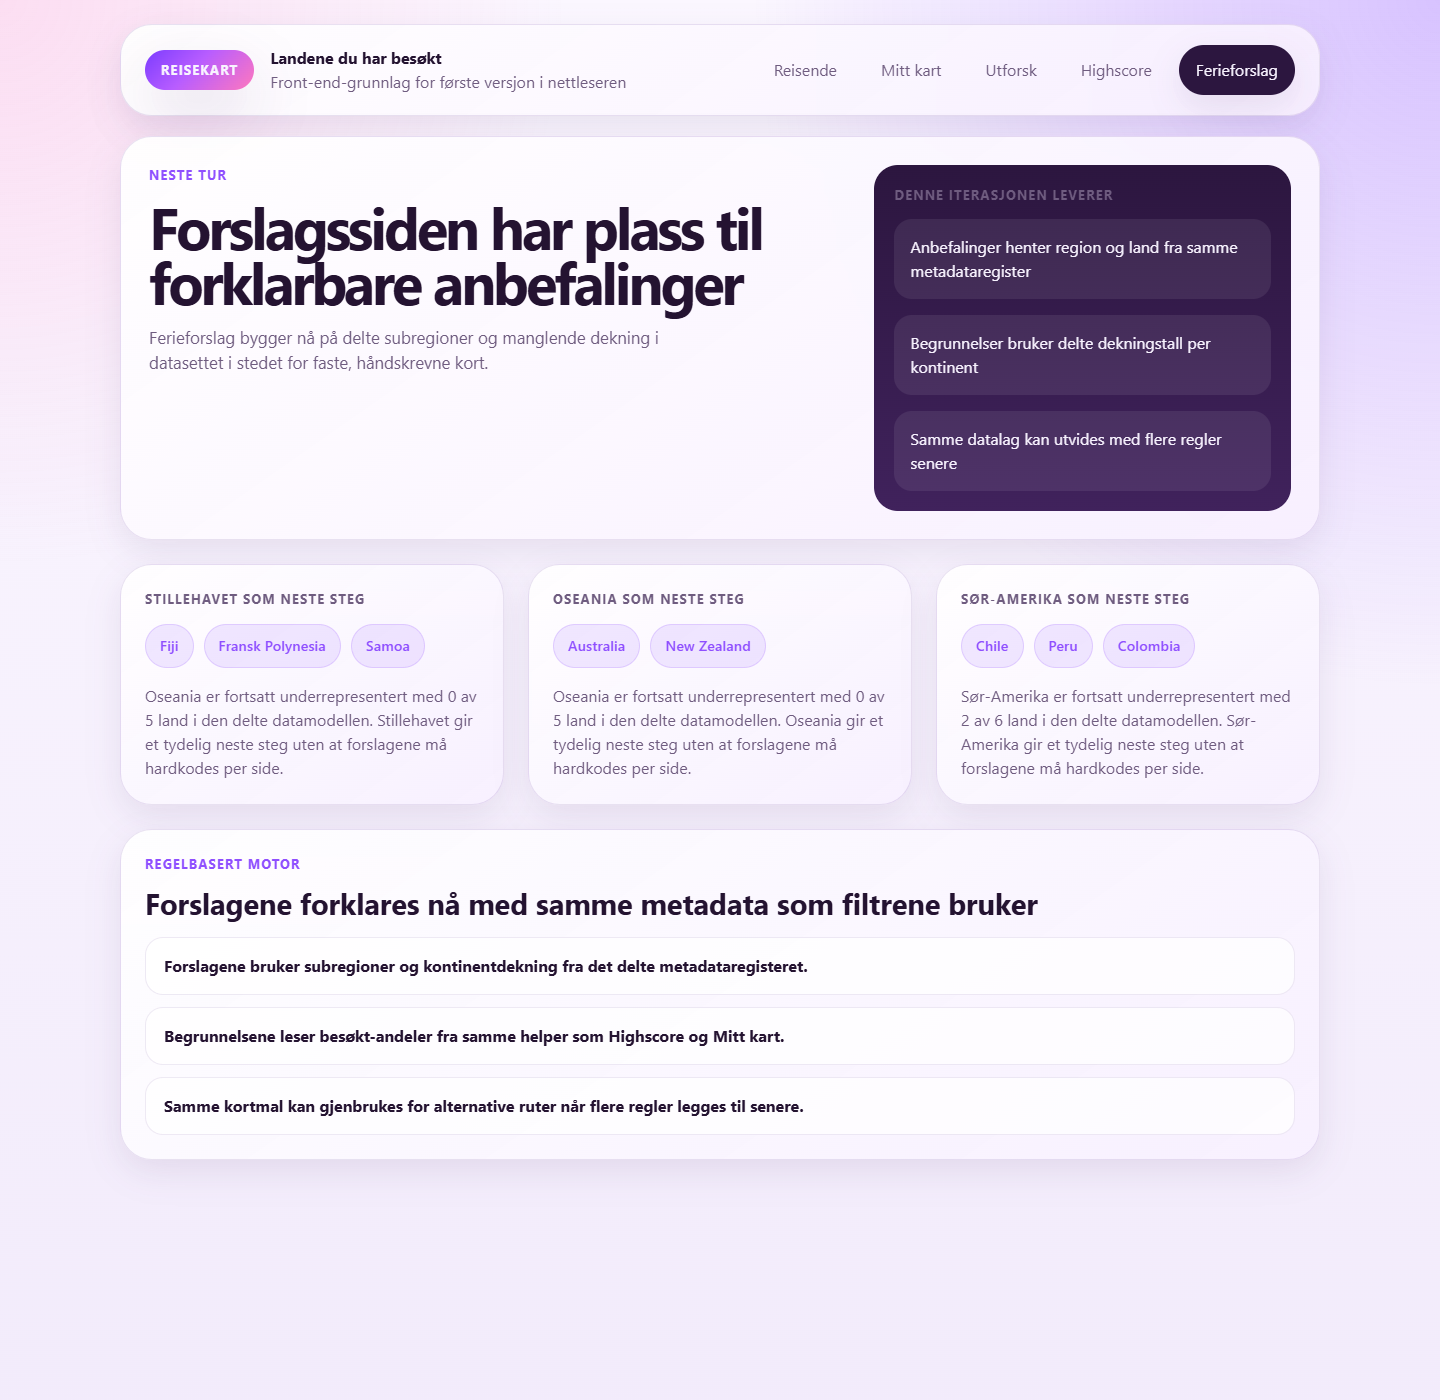
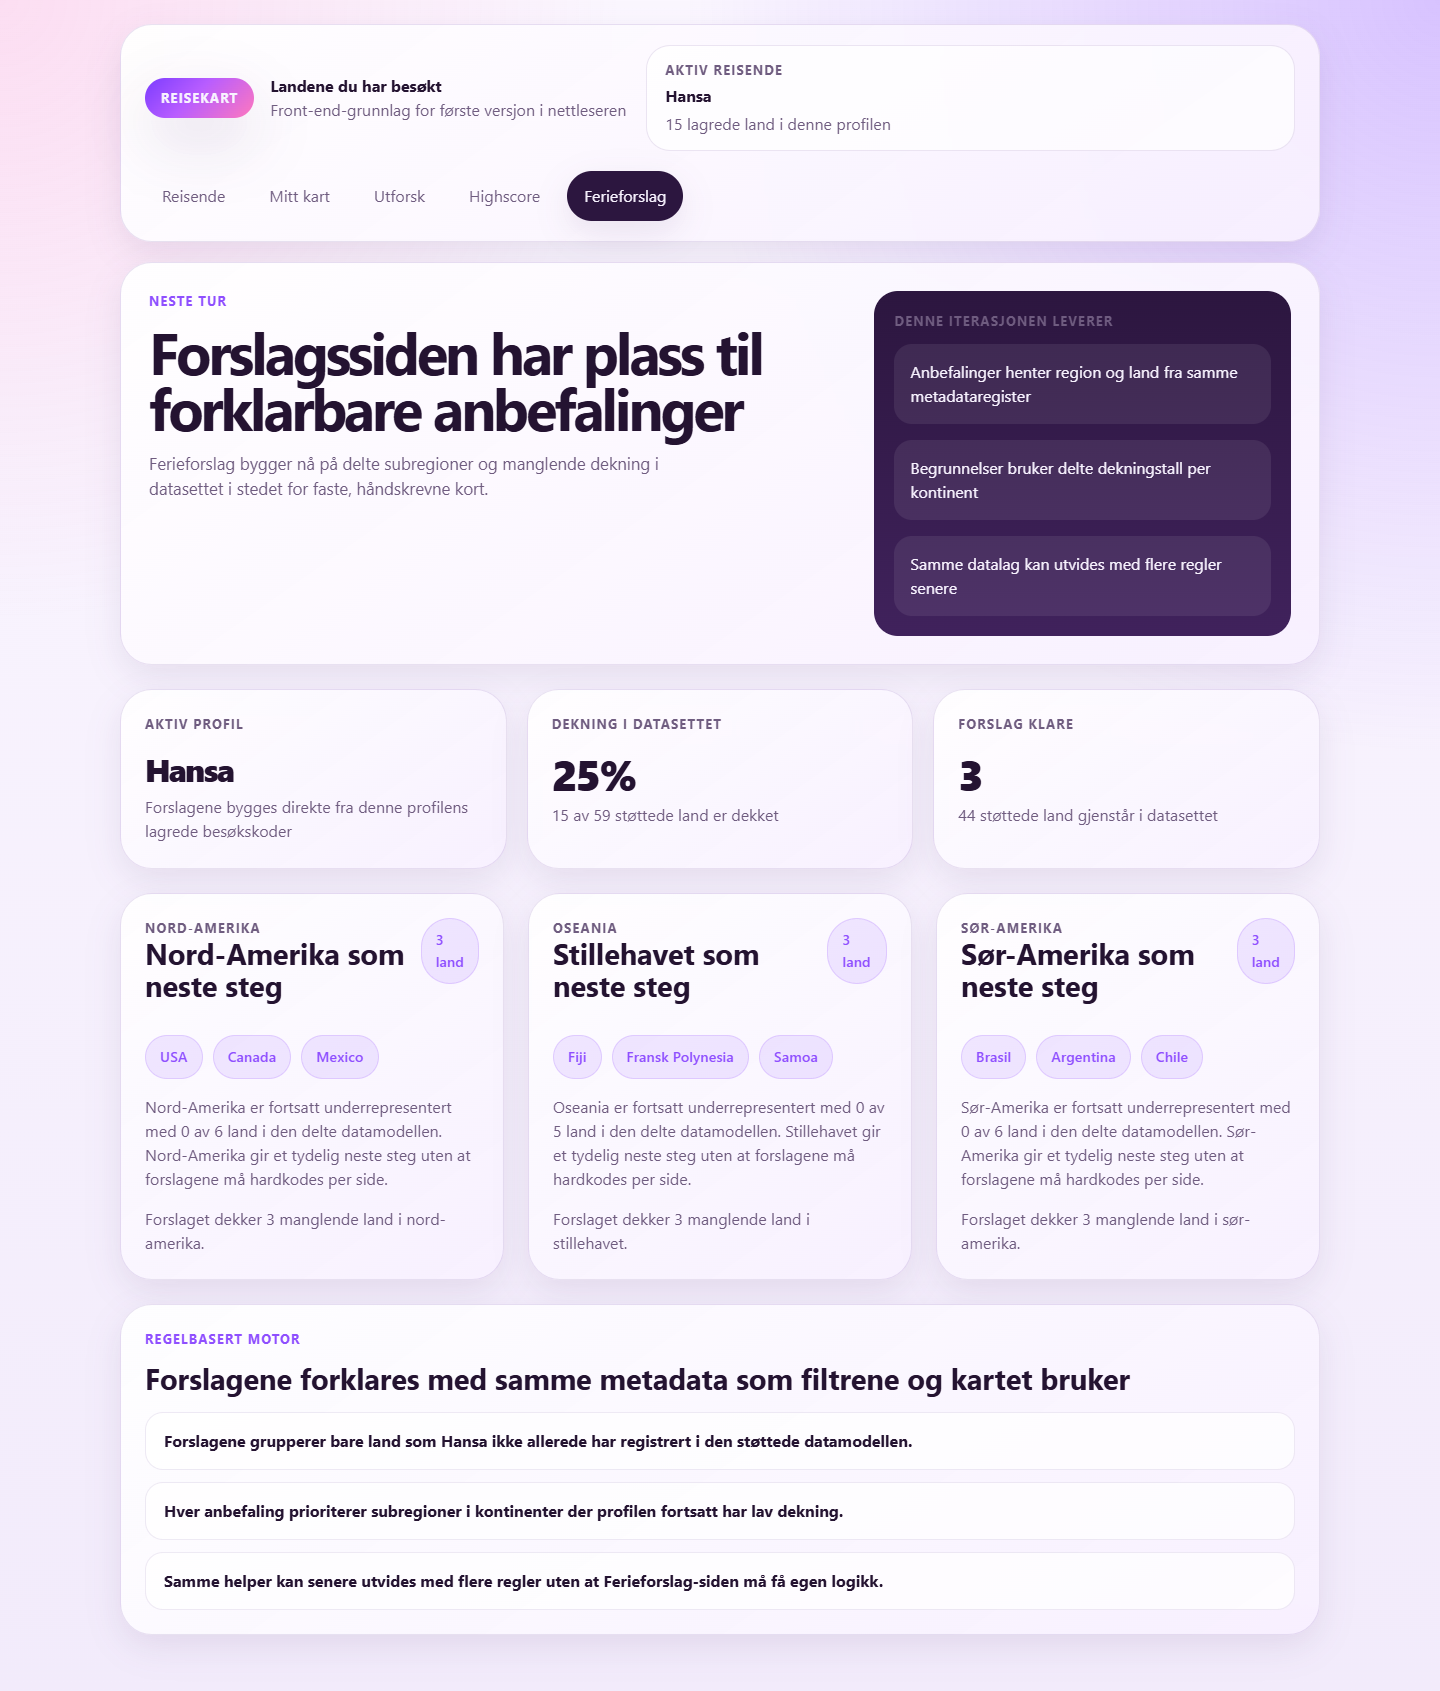
feat: personalize vacation suggestions

Changed region(s): [[0.0625, 0.0307, 0.9375, 0.86], [0.125, 0.8907, 0.5938, 0.9521]]

diff --git a/src/pages/SuggestionsPage.tsx b/src/pages/SuggestionsPage.tsx
@@ -1,53 +1,159 @@
-import { featuredTraveler } from '../features/countries/demoTravelers'
-import { buildVacationSuggestions } from '../features/countries/travelStats'
+import { Link } from 'react-router-dom'
+import { supportedCountryCount } from '../features/countries/countryData'
+import { buildVacationSuggestions, getTravelerSummary } from '../features/countries/travelStats'
+import { useTravelers } from '../features/travelers/TravelerContext'
 
 export function SuggestionsPage() {
-  const suggestions = buildVacationSuggestions(featuredTraveler)
+  const { activeTraveler } = useTravelers()
+
+  if (activeTraveler === null) {
+    return (
+      <section className="page-stack">
+        <article className="card empty-state">
+          <p className="eyebrow">Aktiv profil mangler</p>
+          <h2>Velg en reisende før du ber om neste ferieforslag</h2>
+          <p className="section-copy">
+            Ferieforslag bygger på landene som er lagret på den aktive profilen. Gå til Reisende-siden og
+            velg eller opprett en profil først.
+          </p>
+          <Link to="/" className="cta-link">
+            Gå til Reisende
+          </Link>
+        </article>
+      </section>
+    )
+  }
+
+  const travelerSummary = getTravelerSummary(activeTraveler)
+  const suggestions = buildVacationSuggestions(activeTraveler)
+  const missingCountryCount = Math.max(supportedCountryCount - travelerSummary.visitedCountries.length, 0)
+  const stats = [
+    {
+      label: 'Aktiv profil',
+      value: activeTraveler.displayName,
+      detail: 'Forslagene bygges direkte fra denne profilens lagrede besøkskoder',
+      className: 'stat-value-text',
+    },
+    {
+      label: 'Dekning i datasettet',
+      value: `${travelerSummary.datasetCoveragePercentage}%`,
+      detail:
+        travelerSummary.visitedCountries.length === 0
+          ? 'Ingen støttede land er registrert ennå'
+          : `${travelerSummary.visitedCountries.length} av ${supportedCountryCount} støttede land er dekket`,
+      className: '',
+    },
+    {
+      label: 'Forslag klare',
+      value: `${suggestions.length}`,
+      detail:
+        missingCountryCount === 0
+          ? 'Alle støttede land er allerede dekket i denne profilen'
+          : `${missingCountryCount} støttede land gjenstår i datasettet`,
+      className: '',
+    },
+  ]
+
+  if (missingCountryCount === 0 || suggestions.length === 0) {
+    return (
+      <section className="page-stack">
+        <div className="stat-grid">
+          {stats.map((stat) => (
+            <article key={stat.label} className="card stat-card">
+              <p className="card-label">{stat.label}</p>
+              <p className={`stat-value ${stat.className}`.trim()}>{stat.value}</p>
+              <p className="card-note">{stat.detail}</p>
+            </article>
+          ))}
+        </div>
+
+        <article className="card empty-state empty-card">
+          <p className="eyebrow">Ingen åpne forslag</p>
+          <h2>{activeTraveler.displayName} dekker allerede hele det støttede datasettet</h2>
+          <p className="section-copy">
+            Når alle støttede land allerede er registrert på profilen, finnes det ingen manglende subregioner å
+            anbefale med den nåværende, regelbaserte motoren.
+          </p>
+          <p className="card-note">
+            Neste utvidelse kan se på forskjeller mellom reisende eller alternative typer prioritering.
+          </p>
+        </article>
+      </section>
+    )
+  }
 
   return (
     <section className="page-stack">
+      <div className="stat-grid">
+        {stats.map((stat) => (
+          <article key={stat.label} className="card stat-card">
+            <p className="card-label">{stat.label}</p>
+            <p className={`stat-value ${stat.className}`.trim()}>{stat.value}</p>
+            <p className="card-note">{stat.detail}</p>
+          </article>
+        ))}
+      </div>
+
       <div className="page-grid page-grid-three">
         {suggestions.map((suggestion) => (
           <article key={suggestion.title} className="card suggestion-card">
-            <p className="card-label">{suggestion.title}</p>
-            <div className="pill-list">
+            <div className="card-header">
+              <div>
+                <p className="card-label">{suggestion.continentLabel}</p>
+                <h2>{suggestion.title}</h2>
+              </div>
+              <span className="pill">{suggestion.countries.length} land</span>
+            </div>
+
+            <div className="pill-list" aria-label={`Land i forslaget ${suggestion.title}`}>
               {suggestion.countries.map((country) => (
                 <span key={country.code} className="pill">
                   {country.name}
                 </span>
               ))}
             </div>
+
             <p className="section-copy">{suggestion.reason}</p>
+            <p className="card-note">
+              Forslaget dekker {suggestion.countries.length} manglende land i{' '}
+              {suggestion.subregion.toLocaleLowerCase('nb-NO')}.
+            </p>
           </article>
         ))}
       </div>
 
       <article className="card">
-          <div className="card-header">
-            <div>
-              <p className="eyebrow">Regelbasert motor</p>
-              <h2>Forslagene forklares nå med samme metadata som filtrene bruker</h2>
-            </div>
+        <div className="card-header">
+          <div>
+            <p className="eyebrow">Regelbasert motor</p>
+            <h2>Forslagene forklares med samme metadata som filtrene og kartet bruker</h2>
           </div>
+        </div>
 
-          <div className="list-stack">
-            <article className="list-row">
-              <p className="list-row-title">
-                Forslagene bruker subregioner og kontinentdekning fra det delte metadataregisteret.
-              </p>
-            </article>
-            <article className="list-row">
-              <p className="list-row-title">
-                Begrunnelsene leser besøkt-andeler fra samme helper som Highscore og Mitt kart.
-              </p>
-            </article>
-            <article className="list-row">
-              <p className="list-row-title">
-                Samme kortmal kan gjenbrukes for alternative ruter når flere regler legges til senere.
-              </p>
-            </article>
-          </div>
-        </article>
+        <div className="list-stack">
+          <article className="list-row">
+            <p className="list-row-title">
+              Forslagene grupperer bare land som {activeTraveler.displayName} ikke allerede har registrert i den støttede datamodellen.
+            </p>
+          </article>
+          <article className="list-row">
+            <p className="list-row-title">
+              Hver anbefaling prioriterer subregioner i kontinenter der profilen fortsatt har lav dekning.
+            </p>
+          </article>
+          <article className="list-row">
+            <p className="list-row-title">
+              Samme helper kan senere utvides med flere regler uten at Ferieforslag-siden må få egen logikk.
+            </p>
+          </article>
+        </div>
+
+        {travelerSummary.unsupportedCountryCodes.length > 0 && (
+          <p className="card-note">
+            Koder utenfor datasettet på profilen: {travelerSummary.unsupportedCountryCodes.join(', ')}.
+          </p>
+        )}
+      </article>
     </section>
   )
 }
